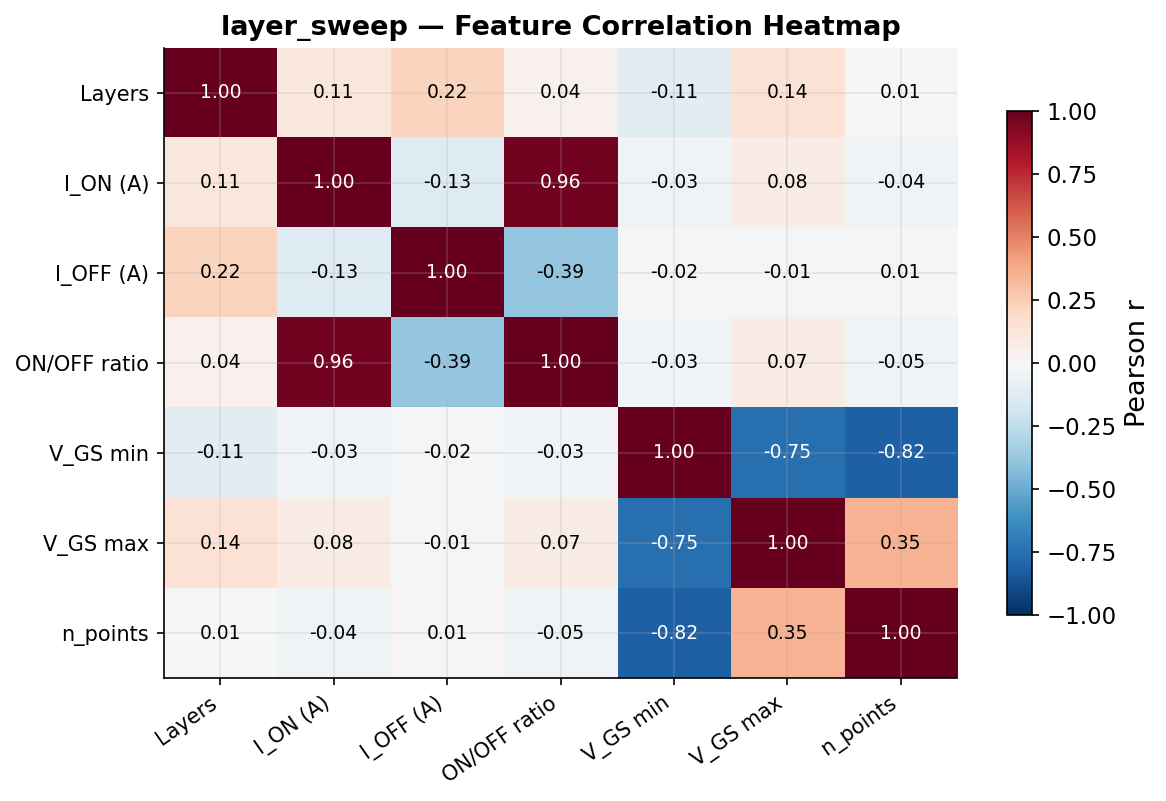
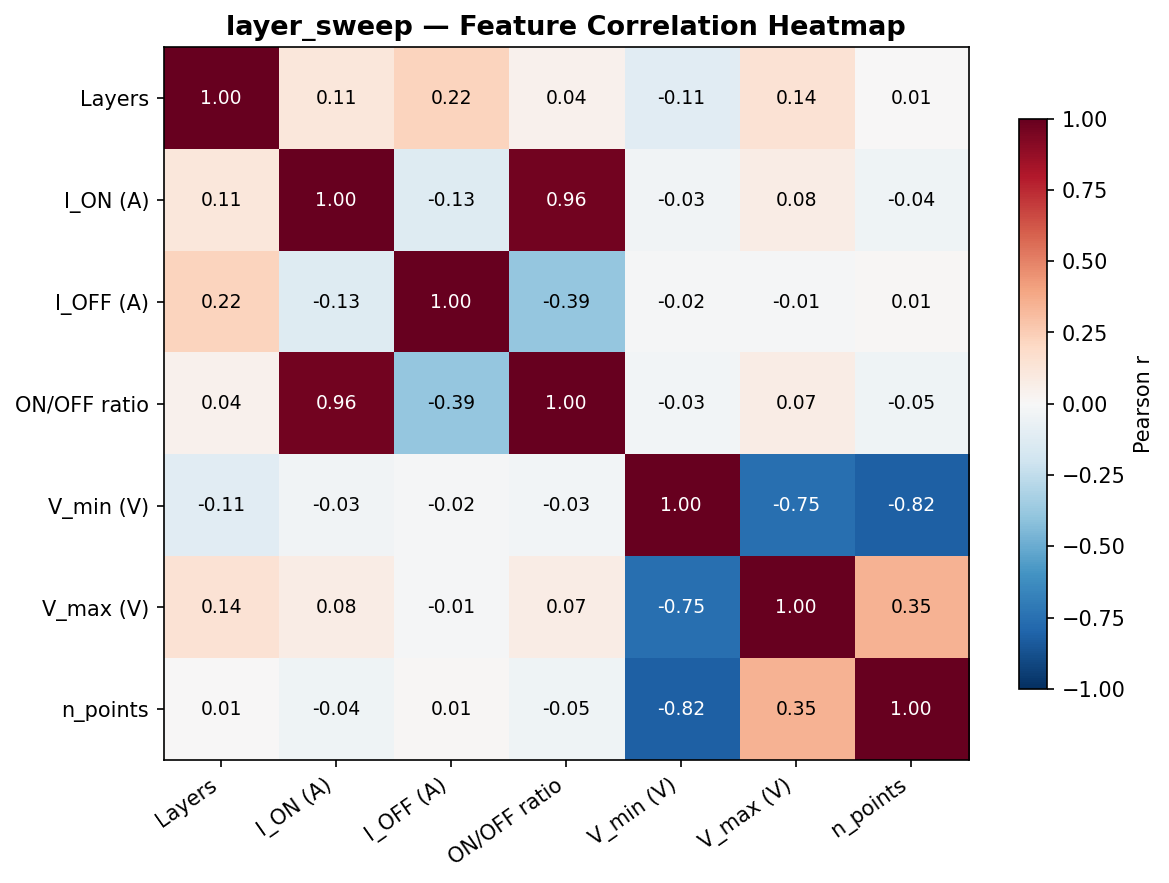
Fix measurement-mode terminology and fabrication description: layer_sweep is two-terminal sub-threshold (±10V), electrodes evaporated not printed

diff --git a/scripts/build_eda_notebook.py b/scripts/build_eda_notebook.py
@@ -221,8 +221,8 @@ corr = layer[numeric_cols].corr()
 # nicer labels
 label_map = {
     "layers": "Layers", "id_on_A": "I_ON (A)", "id_off_A": "I_OFF (A)",
-    "on_off_ratio": "ON/OFF ratio", "vgs_min_V": "V_GS min",
-    "vgs_max_V": "V_GS max", "n_points": "n_points"
+    "on_off_ratio": "ON/OFF ratio", "vgs_min_V": "V_min (V)",
+    "vgs_max_V": "V_max (V)", "n_points": "n_points"
 }
 corr.index   = [label_map.get(c, c) for c in corr.index]
 corr.columns = [label_map.get(c, c) for c in corr.columns]

diff --git a/README.md b/README.md
@@ -15,9 +15,9 @@ Won Jun Lee (이원준) · MRes Soft Electronics, Imperial College London · [gi
 The device is a solution-processed bipolar memristor fabricated on a Si/SiO₂ substrate. The layer stack from bottom to top:
 
 - **Si/SiO₂** — substrate and electrical isolation layer
-- **Au/Cr** — bottom electrodes, inkjet-printed in a four-contact cross geometry (Au for low-resistance ohmic contact; Cr adhesion layer)
+- **Au/Cr** — bottom electrodes, evaporated Cr/Au, photolithographically patterned in a four-contact cross geometry (Au for low-resistance ohmic contact; Cr adhesion layer)
 - **MoS₂** — switching layer, spray-coated from solution over the bottom electrodes using an automated spray coater
-- **Graphene** — top electrode, wet-transferred over the MoS₂ switching layer
+- **Graphene** — top electrode, CVD-grown graphene, wet-transferred over the MoS₂ switching layer
 
 Electrode linewidth was varied by design across the chip: **2, 6, 12, and 18 µm** (encoded as position codes A–D in measurement filenames). All electrical measurements were performed on a Keithley 2634B dual-channel SourceMeter in dual-sweep IV mode (4,000 points per sweep).
 
@@ -35,7 +35,7 @@ Electrode linewidth was varied by design across the chip: **2, 6, 12, and 18 µm
 | Layer stack | Si/SiO₂ / Au/Cr / MoS₂ (spray-coated) / Graphene (wet transfer) |
 | Measurement instrument | Keithley 2634B SourceMeter |
 | Total IV sweeps processed | 577 raw CSV files |
-| ON/OFF ratio (best devices) | ~10⁷ |
+| ON/OFF ratio (best devices) | ~10⁷ (lower bound; OFF current near the slow-mode noise floor) |
 | SET voltage range | −12.8 V to +19.4 V |
 | Electroforming trend | R² = 0.48, p < 0.001 (Chip#14, n = 85 sweeps) |
 | Minimum reliable electrode CD | 12 µm |
@@ -46,9 +46,9 @@ Electrode linewidth was varied by design across the chip: **2, 6, 12, and 18 µm
 
 Four process-relevant findings are reported from real experimental data:
 
-**1. MoS₂ layer count does not predict switching performance.** Random Forest regression yields R² = −0.09 across 73 gate-sweep measurements. Layer count as measured by optical contrast is too coarse a metric to predict ON/OFF ratio in this system — local interface quality and defect density are the controlling variables.
+**1. MoS₂ layer count does not predict low-bias conduction.** Random Forest regression yields R² = −0.09 across 73 ±10 V sub-threshold sweep measurements. These sweeps stay below the SET threshold (12–19 V), so devices do not switch; the ON/OFF values here (~10⁰⁻¹) are sub-threshold conduction ratios, distinct from the ~10⁷ switching ratios from ±20 V sweeps. Layer count as measured by optical contrast is too coarse a metric to predict sub-threshold conduction in this system — local interface quality and defect density are the controlling variables.
 
-**2. Repeated measurement cycles produce systematic drift in device behaviour.** ON-state current increases monotonically with run number on Chip#14 (R² = 0.48, p < 0.001), consistent with progressive conductive filament widening — the electroforming signature. Devices in the Aug 2024 batch were permanently in the ON state by the measurement session, indicating over-electroforming prior to characterisation.
+**2. Repeated measurement cycles produce systematic drift in device behaviour.** ON-state current increases monotonically with run number on Chip#14 (R² = 0.48, p < 0.001; runs are repeated measures on the same devices), consistent with progressive conductive filament widening — the electroforming signature. Devices in the Aug 2024 batch were permanently in the ON state by the measurement session, indicating over-electroforming prior to characterisation. (single chip — Chip#14)
 
 **3. Electrode geometry is the primary process-control variable for switching yield.** ON-state current scales monotonically with electrode width. Yield drops sharply below 12 µm: 6 µm devices show bimodal behaviour (FC4 column yield 92%, FC1 column yield 9%); 2 µm devices produce leakage current only with no observable switching events.
 
@@ -68,13 +68,13 @@ Fitted resistance (R5) across 52 functional devices follows R ∝ W⁻¹·¹⁵ 
 
 ---
 
-### 2 — Layer Count vs Switching Performance
+### 2 — Layer Count vs Low-Bias Conduction
 
 <p align="center">
   <img src="https://raw.githubusercontent.com/wjlee619/mos2-memristor-ml/main/results/figures/fig_s1_layer_distribution.png" width="700"/>
 </p>
 
-ON/OFF ratio across 6 MoS₂ layer groups (10–60 layers). No monotonic trend observed — Pearson r < 0.25, Random Forest R² = −0.09. Layer count is not a viable process control parameter for switching yield in this material system.
+Low-bias ON/OFF conduction ratio across 6 MoS₂ layer groups (10–60 layers) from 73 ±10 V sub-threshold sweeps. No monotonic trend observed — Pearson r < 0.25, Random Forest R² = −0.09. These sweeps remain below the SET threshold and do not probe switching; the ~10⁰⁻¹ ON/OFF values here are sub-threshold conduction ratios, distinct from the ~10⁷ switching ratios from ±20 V sweeps. Layer count is not a viable process control parameter for sub-threshold conduction in this material system.
 
 ---
 
@@ -98,7 +98,7 @@ Log-scale IV curves for Run 33 (negative polarity, V_SET = −12.8 V) and Run 35
   <img src="https://raw.githubusercontent.com/wjlee619/mos2-memristor-ml/main/results/figures/fig_s3_correlation.png" width="700"/>
 </p>
 
-Pearson correlation matrix for gate-sweep features. The strong i_ON ↔ ON/OFF ratio correlation (r = 0.96) is an instrument noise floor artefact: OFF-state current is clamped at ~3.66×10⁻⁶ A by the Keithley measurement floor, compressing the denominator of the ON/OFF ratio. This correlation is not a physical device property.
+Pearson correlation matrix for layer_sweep (±10 V sub-threshold sweep) features. The strong I_ON ↔ ON/OFF ratio correlation (r = 0.96) is an instrument noise floor artefact: OFF-state current is clamped at ~3.66×10⁻⁶ A by the Keithley fast-sweep measurement floor, compressing the denominator of the ON/OFF ratio. This correlation is not a physical device property.
 
 ---
 
@@ -200,7 +200,7 @@ Operating in log-space compresses the 10⁷ dynamic range into 7 log-decades, ma
 mos2-memristor-ml/
 ├── data/
 │   ├── processed/
-│   │   ├── layer_sweep.csv                   # Gate sweep features (73 files)
+│   │   ├── layer_sweep.csv                   # ±10 V sub-threshold sweep features (73 files)
 │   │   ├── memeffect_sweep.csv               # IV sweep SET/RESET features (39 files)
 │   │   └── memeffect_sweep_aug30.csv         # Aug 2024 batch (85 files)
 │   ├── derived/
@@ -219,7 +219,7 @@ mos2-memristor-ml/
 │
 ├── scripts/
 │   ├── extract_memeffect_iv.py               # Core IV feature extractor
-│   ├── process_layer_sweep.py                # Gate sweep feature extraction
+│   ├── process_layer_sweep.py                # Sub-threshold sweep feature extraction
 │   └── parse_position_aug30.py              # Electrode width + position parsing
 │
 ├── results/figures/                          # All output figures
@@ -248,7 +248,7 @@ jupyter notebook notebooks/01_eda.ipynb
 ## Scope and Constraints
 
 - Dataset covers a single fabrication run; a controlled DOE varying electrode geometry, MoS₂ deposition passes, and measurement sequence independently was not performed
-- Instrument noise floor (~3.66×10⁻⁶ A) limits OFF-state resolution; ON/OFF ratios for low-current devices are partially instrument-limited
+- Instrument noise floor is mode-specific: ~3.66×10⁻⁶ A in the fast ±10 V sweep mode (layer_sweep dataset); ~pA in the slow IV sweep mode (memeffect_sweep dataset). OFF-state resolution and ON/OFF ratios for low-current devices are partially instrument-limited in each respective mode
 - Only two switching events were captured from the OFF state (Chip#1, Runs 33 and 35); V_SET distribution statistics require a larger cycling dataset
 - Column position and T-code (measurement channel) are confounded in the 6 µm yield analysis — a follow-on experiment measuring T12 and T24 at both FC1 and FC4 positions is required to separate spatial from channel effects
 - Raw IV trace files are not included (institutional data; available on request)

diff --git a/docs/device_physics_notes.md b/docs/device_physics_notes.md
@@ -9,9 +9,9 @@ The device is a printed MoS₂/Graphene bipolar memristor fabricated on a SiO₂
 
 **Layer stack (bottom to top):**
 - **Substrate:** SiO₂ (thermally grown on Si, provides electrical isolation)
-- **Bottom electrode:** Au/Cr inkjet-printed. Four contacts per device arranged in a cross geometry, numbered 1–4 clockwise from top. The Au provides low-resistance ohmic contact; Cr is the adhesion layer. Inkjet printing introduces some edge roughness at contact corners — relevant for field concentration.
+- **Bottom electrode:** Au/Cr, deposited by evaporation and photolithographically patterned. Four contacts per device arranged in a cross geometry, numbered 1–4 clockwise from top. The Au provides low-resistance ohmic contact; Cr is the adhesion layer.
 - **Switching layer:** MoS₂ ink spray-coated over the bottom electrodes. The MoS₂ is solution-processed, which means it contains a mixture of single- and few-layer flakes with a disordered grain boundary network, residual solvent, and a non-uniform distribution of sulfur vacancies. Same nominal layer count across all Chip#14 devices (same spray pass), but local thickness varies due to spray pattern geometry (see Section 7).
-- **Top electrode:** Graphene (likely CVD-transferred or also printed). Provides the counter-electrode for current injection into the MoS₂.
+- **Top electrode:** CVD-grown graphene, wet-transferred. Provides the counter-electrode for current injection into the MoS₂.
 
 **Measurement instrument:** Keithley 2634B dual-channel SMU. Dual-sweep mode enabled — each measurement file contains a full out-and-back voltage sweep in a single CSV. Header is ~62 rows of instrument metadata; data begins at the `"Index"` row. The last 5 rows of each file are summary statistics (Min, Max, Mean, StdDev, CV) — these must be dropped before analysis.
 
@@ -125,7 +125,7 @@ The filament nucleation site is **asymmetrically located** between contacts 1 an
 This asymmetry is a **fabrication fingerprint**. In a printed device, the ink deposition is never perfectly symmetric about the channel midpoint:
 - MoS₂ flake orientation and stacking varies across the channel
 - The spray-coating trajectory deposits more material in one half of the channel depending on the nozzle sweep direction
-- Au/Cr contact morphology may differ slightly between contacts 1 and 4 due to inkjet print head orientation
+- Au/Cr contact morphology may differ slightly between contacts 1 and 4 due to non-uniformity in the evaporation or photolithographic patterning
 
 These asymmetries create a **preferred polarity for filament growth**: lower V_SET under the polarity that aligns the field with the dominant V_S drift direction.
 